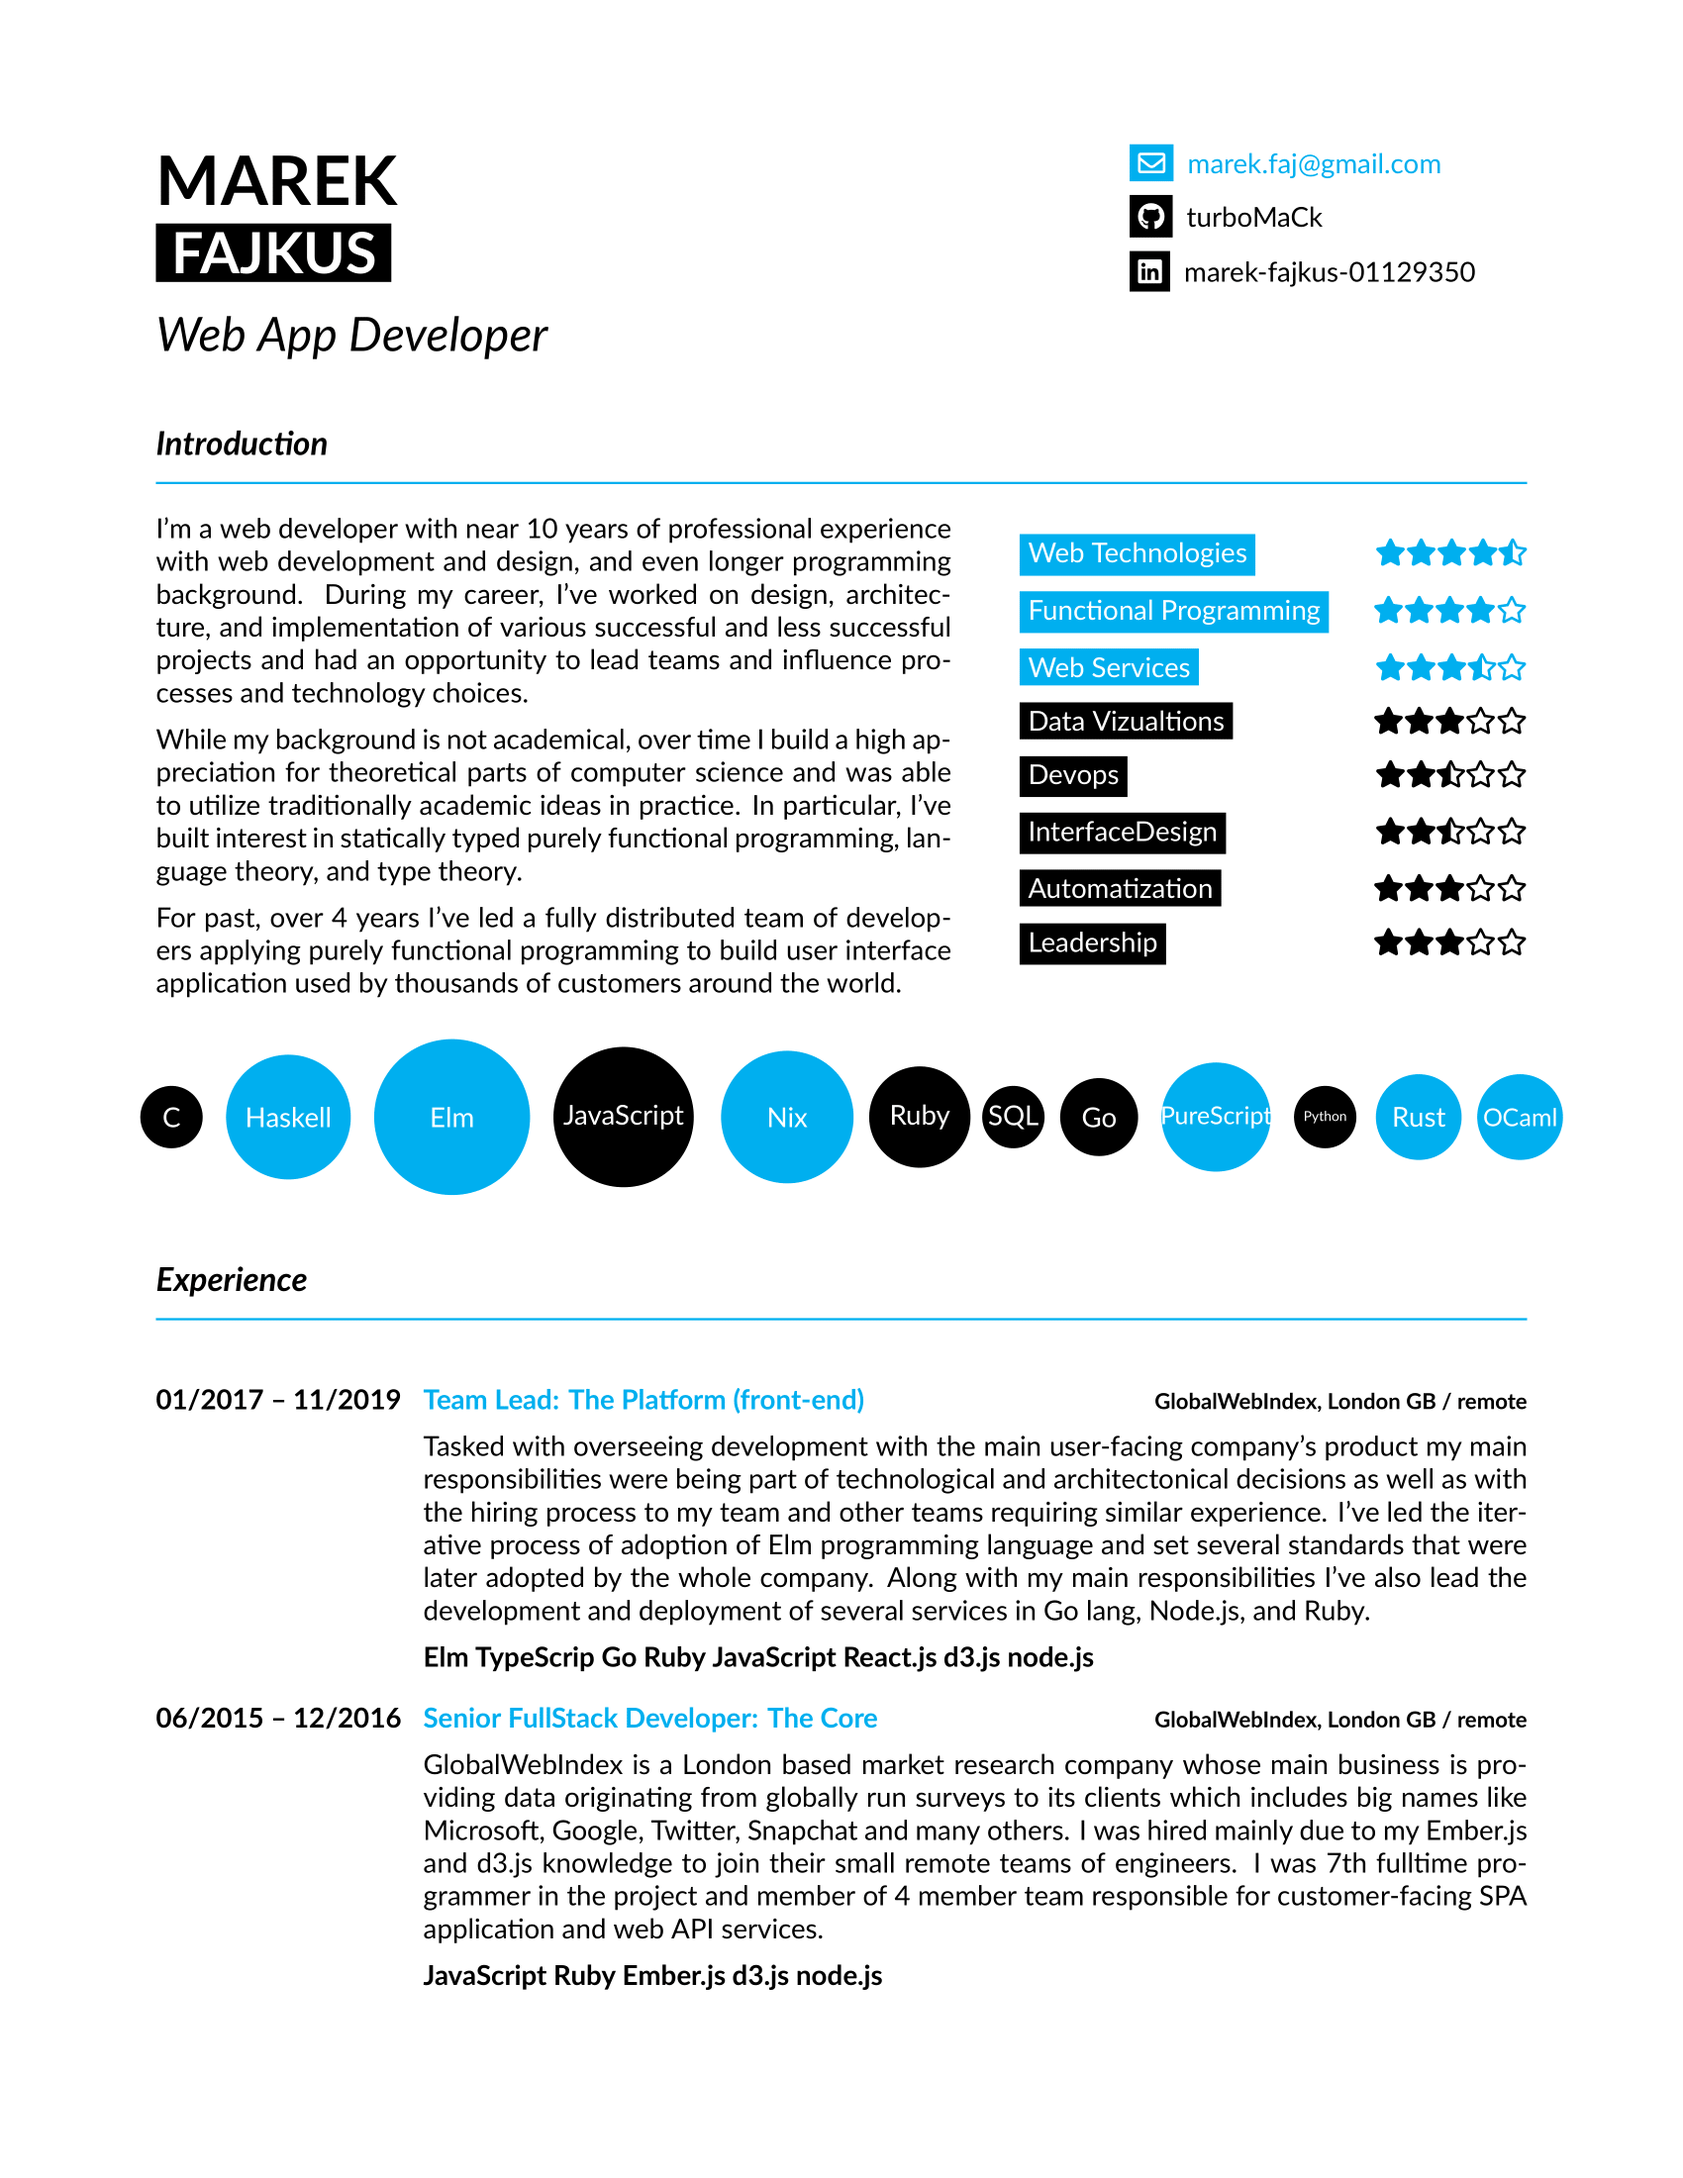
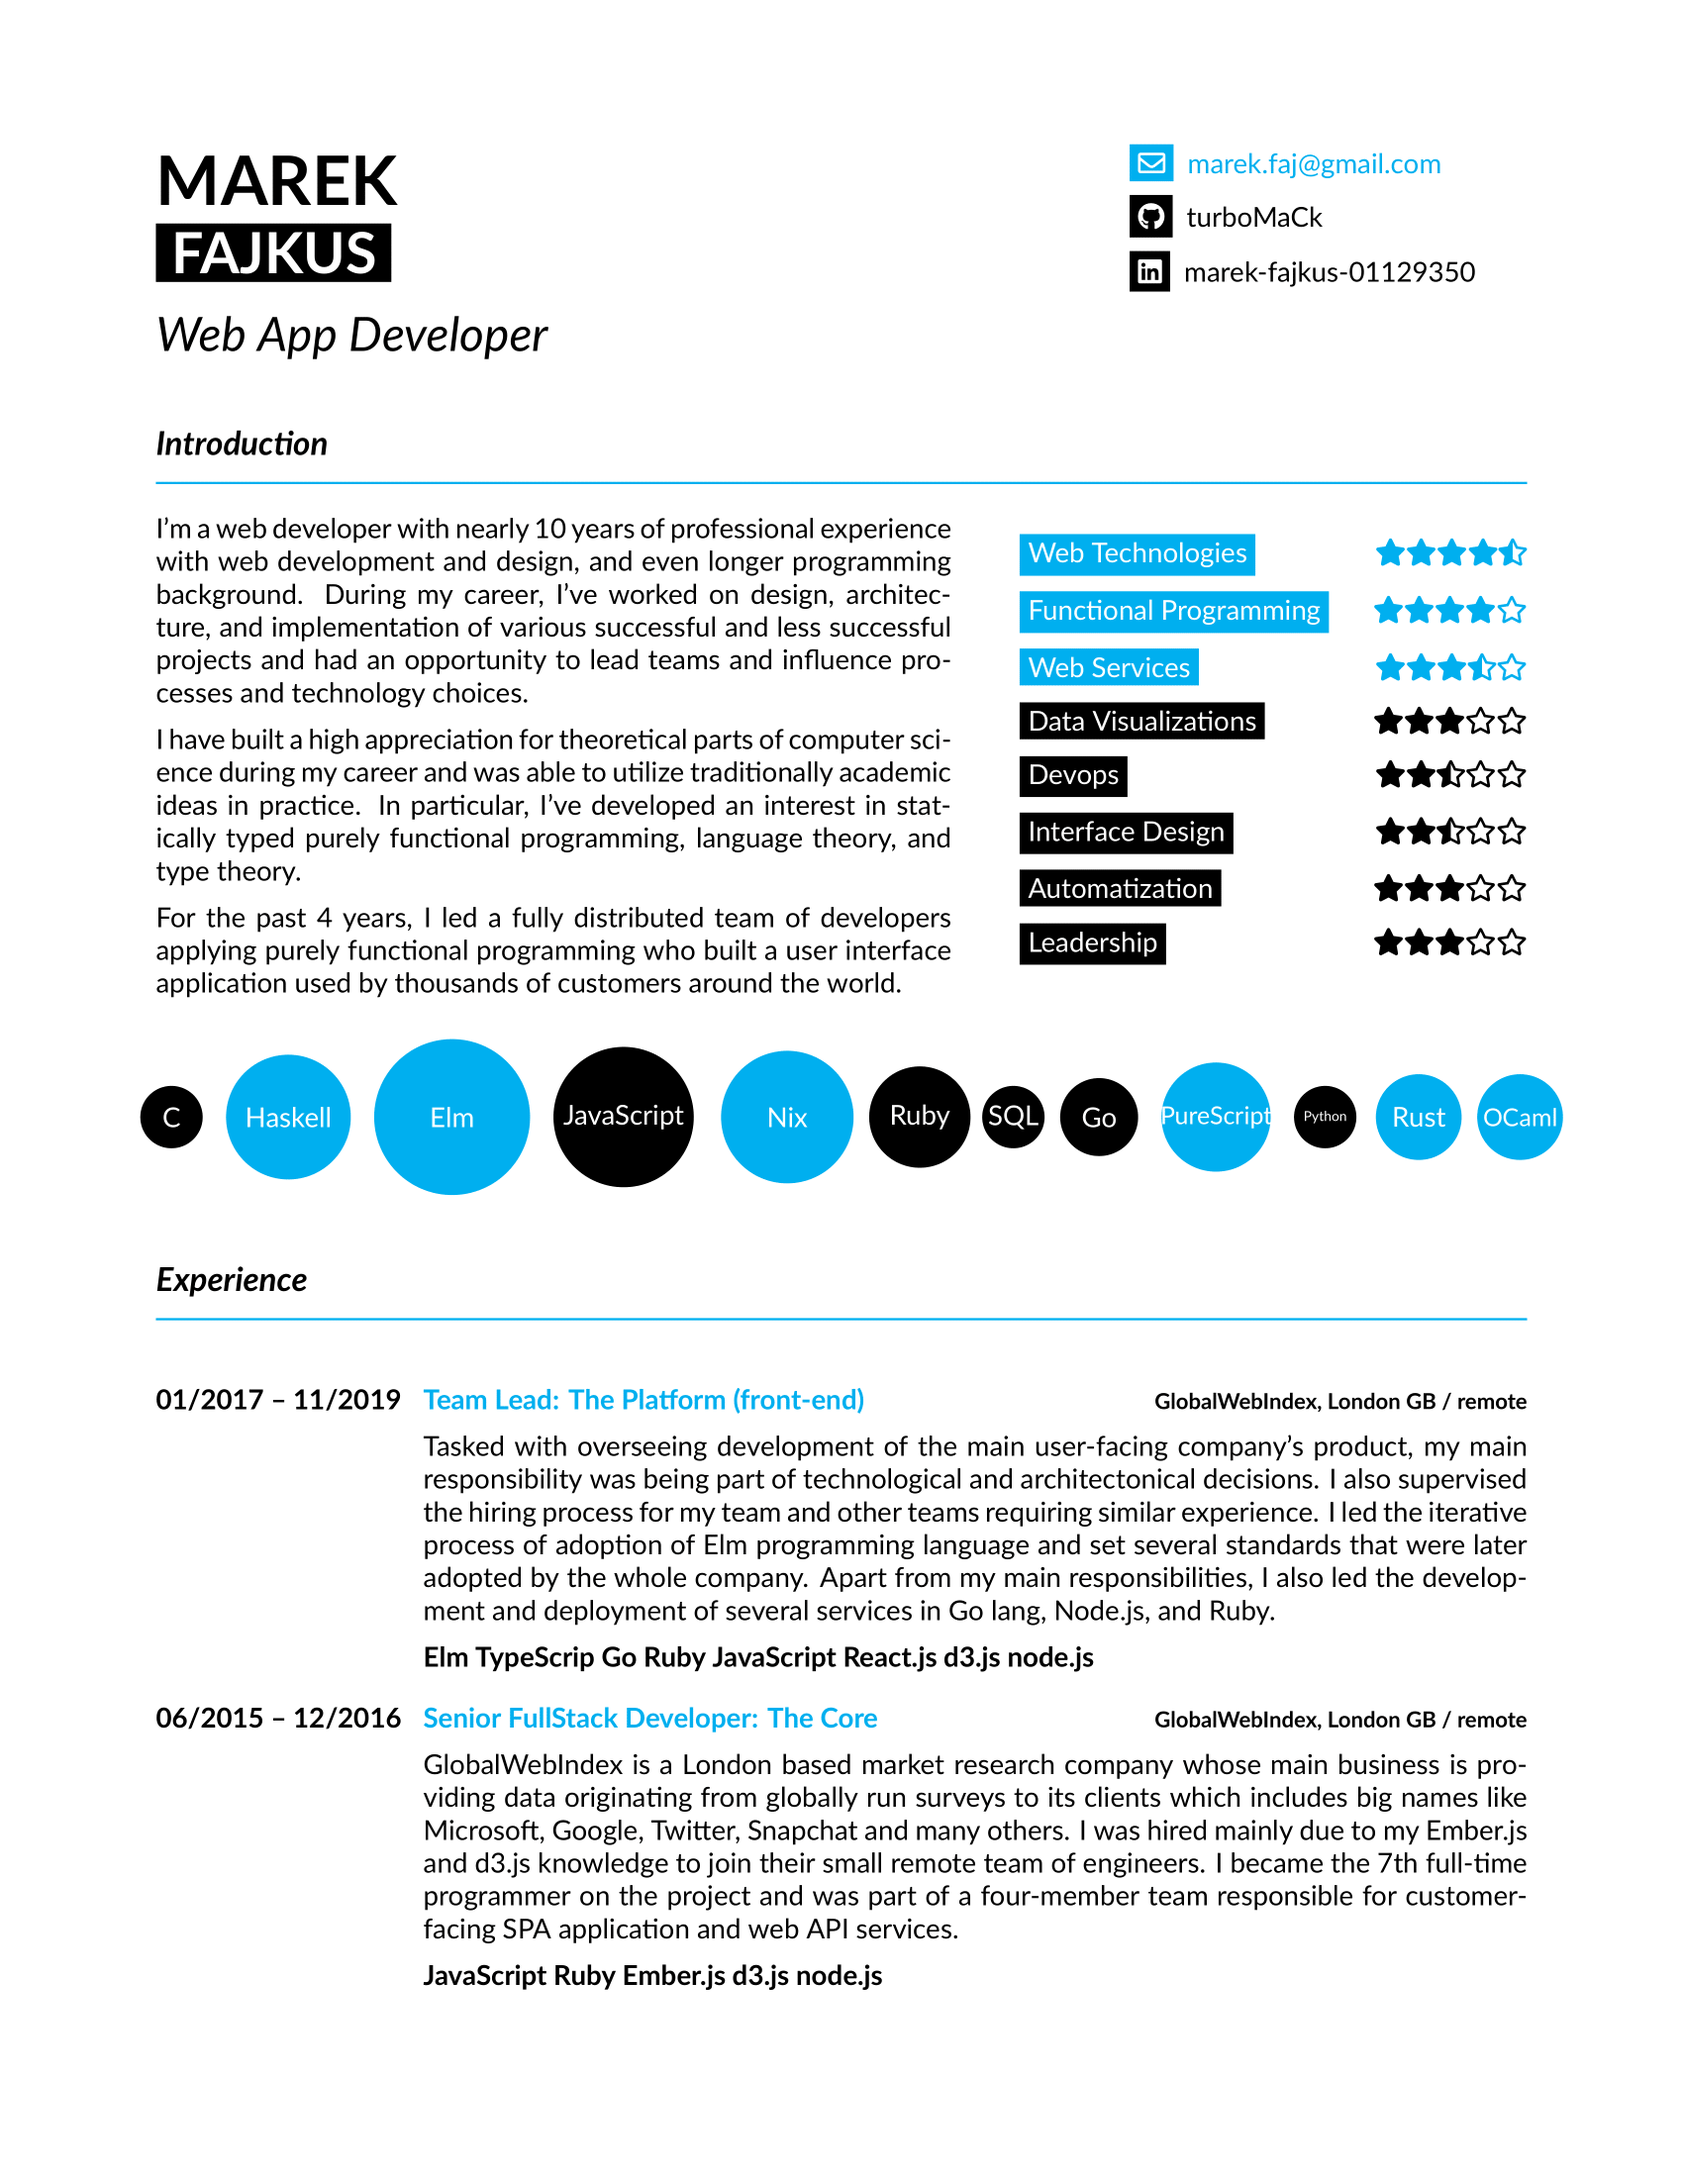
copy improvements

diff --git a/cv.tex b/cv.tex
@@ -212,21 +212,22 @@
 
 \begin{tabular}{@{}l@{\hskip 20pt}r}
     \begin{minipage}[l]{0.58\textwidth}
-      I'm a web developer with near 10 years of professional experience
+
+      I'm a web developer with nearly 10 years of professional experience
       with web development and design, and even longer programming background.
       During my career, I've worked on design, architecture, and implementation
       of various successful and less successful projects and had an opportunity
       to lead teams and influence processes and technology choices.
 
       \vspace{0.5em}
-      While my background is not academical, over time I build a high appreciation for
-      theoretical parts of computer science and was able to utilize traditionally
-      academic ideas in practice. In particular, I've built interest in
-      statically typed purely functional programming, language theory, and type theory.
+      I have built a high appreciation for theoretical parts of computer science during my career
+      and was able to utilize traditionally academic ideas in practice.
+      In particular, I've developed an interest in statically typed purely functional programming,
+      language theory, and type theory.
 
       \vspace{0.5em}
-      For past, over 4 years I've led a fully distributed team of developers applying
-      purely functional programming to build user interface application used by thousands
+      For the past 4 years, I led a fully distributed team of developers applying
+      purely functional programming who built a user interface application used by thousands
       of customers around the world.
 
     \end{minipage}
@@ -237,9 +238,9 @@
         \skill{Web Technologies}{45}{ProcessBlue}
         \skill{Functional Programming}{40}{ProcessBlue}
         \skill{Web Services}{35}{ProcessBlue}
-        \skill{Data Vizualtions}{30}{black}
+        \skill{Data Visualizations}{30}{black}
         \skill{Devops}{25}{black}
-        \skill{InterfaceDesign}{25}{black}
+        \skill{Interface Design}{25}{black}
         \skill{Automatization}{30}{black}
         \skill{Leadership}{30}{black}
       \end{tabularx}
@@ -272,12 +273,10 @@
 
 \begin{longtable}{@{}ll@{}}
   \entry{01/2017 -- 11/2019}{Team Lead: The Platform (front-end)}{GlobalWebIndex, London GB / remote}{
-    Tasked with overseeing development with the main user-facing company's product my main
-    responsibilities were being part of technological and architectonical decisions as well
-    as with the hiring process to my team and other teams requiring similar experience.
-    I've led the iterative process of adoption of Elm programming language and set several
-    standards that were later adopted by the whole company. Along with my main responsibilities
-    I've also lead the development and deployment of several services in Go lang, Node.js, and Ruby.
+    Tasked with overseeing development of the main user-facing company's product, my main
+    responsibility was being part of technological and architectonical decisions. I also supervised the hiring process for my team and other teams requiring similar experience.
+    I led the iterative process of adoption of Elm programming language and set several
+    standards that were later adopted by the whole company. Apart from my main responsibilities, I also led the development and deployment of several services in Go lang, Node.js, and Ruby.
 
     \vspace{0.5em}
 
@@ -295,8 +294,8 @@
     GlobalWebIndex is a London based market research company whose main business is providing
     data originating from globally run surveys to its clients which includes big names like Microsoft,
     Google, Twitter, Snapchat and many others. I was hired mainly due to my Ember.js and d3.js knowledge
-    to join their small remote teams of engineers. I was 7th fulltime programmer in the project and member of
-    4 member team responsible for customer-facing SPA application and web API services.
+    to join their small remote team of engineers. I became the 7th full-time programmer on the project and was part of a
+    four-member team responsible for customer-facing SPA application and web API services.
 
     \vspace{0.5em}
 
@@ -311,7 +310,7 @@
     As an independent developer, I was helping with bootstrapping and prototyping startup ideas.
     I was mainly focused on web APIs (REST) in Ruby and Node.js and web-based admin interfaces (Ember.js) while
     most of the user-facing interface was done as a native mobile application for iOS and Android.
-    Occasionally I was helping with Android applications.
+    Occasionally, I was helping with Android applications.
     \vspace{0.5em}
 
     \bfseries JavaScript
@@ -323,7 +322,7 @@
 
   \entry{11/2013 -- 11/2014}{Senior Front End Developer}{Madeo Interactive, Zlin CZ}{
     Madeo Interactive is an award-winning agency based in Zlin. My main responsibility was
-    working closely with clients and the design team in implementing websites and web applications.
+    to work closely with clients and the design team on implementing websites and web applications.
     I also had a chance to work on SPA applications using Ember.js and Backbone.js and occasionally
     also with RubyOnRails and PHP backends.
     \vspace{0.5em}
@@ -338,8 +337,8 @@
   }
 
   \entry{03/2012 -- 10/2014}{Independet FullStack WebDeveloper / Designer}{Self Employed, Brno CZ}{
-    Working as a freelance web developer and designer I was covering the realization of many projects for my clients.
-    In wast majority of cases, those were PHP web applications based on open source technologies like WordPress.
+    Working as a freelance web developer and designer, I was covering the realization of many projects for my clients.
+    In vast majority of cases, those were PHP web applications based on open source technologies like WordPress.
 
     \vspace{0.5em}
 
@@ -349,8 +348,8 @@
   }
 
   \entry{06/2012 -- 02/2012}{Senior WebDesigner / WebDeveloper}{WebCzech, Brno CZ}{
-    After proving my abilities I was assigned more responsibilities including
-    mainly working on e-commerce systems. Still being responsible for both designs
+    After proving my abilities, I was assigned more responsibilities including
+    mainly work on e-commerce systems. I was still responsible for both designs
     as well as the implementation part of projects based mostly on in-house solutions.
 
     \vspace{0.5em}
@@ -363,9 +362,9 @@
 
   \entry{11/2010 -- 05/2011}{Junior WebDesigner / WebDeveloper}{WebCzech, Brno CZ}{
     WebCzech is a small web design and e-commerce studio from Brno. It was the first place
-    where I send my resume to end up accepting the offer. I have been hired thanks to my prior
+    where I sent my resume and they ended up accepting the offer. I was hired thanks to my prior
     knowledge of web technologies and Adobe Flash. My responsibilities included designing and
-    realization of small to mid-sized websites for clients.
+    realization of small to mid-size websites for clients.
 
     \vspace{0.5em}
 
@@ -379,11 +378,11 @@
 \section{Education}
 
 \subsection{Gymnazium Zidlochovice}
-After 5th grade, I was accepted to 8th-year high school for talented kids focused on education of languages and science.
-Even though the program's mainly preparation for university, after graduation I've decided to enter
-the industry. During my studies, I've spent a lot of time learning about Linux, programming small
-games, completed a year project about physics simulations and implemented the school's
-official website for geography classes.
+At the age of 11, I entered an 8-year programme of grammar school,
+which focuses on teaching languages and science. Although the purpose is to prepare for university,
+I decided to enter the industry after graduation instead. During my studies,
+I spent a lot of time learning about Linux and programming games.
+I also completed a year-long physics simulations project and implemented the school’s official website for a geography class.
 
 \vspace{0.3cm}
 \section{Additional Skils}
@@ -401,8 +400,8 @@ official website for geography classes.
   & \begin{minipage}[t]{0.5\textwidth}
       \subsection{Hobbies}
       \begin{itemize}[leftmargin=0.3cm]
-        \item[-] \textbf{OpenSource}: I'm NixOS maitainer, write libraries and contribute to open source projects
-        \item[-] \textbf{Music}: I like music, play guitar and have played in several bands
+        \item[-] \textbf{OpenSource}: I'm NixOS maintainer, write libraries and contribute to open source projects
+        \item[-] \textbf{Music}: I like music, play the guitar and have played in several bands
       \end{itemize}
   \end{minipage} \\
 \end{tabular}
